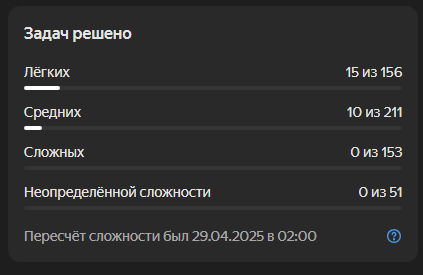
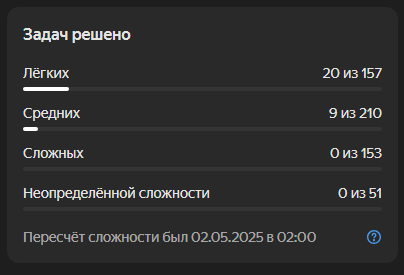
Solve an easy level task. The binary search tag

diff --git a/code/solutions/132 — Коллекционер Диего/solution.py b/code/solutions/132 — Коллекционер Диего/solution.py
@@ -1,0 +1,30 @@
+import sys
+
+class Solution:
+    def insert_search(self, nums, target):
+        l = 0
+        r = len(nums) - 1
+
+        while l <= r:
+            mid = (l + r) // 2
+            if target > nums[mid]:
+                l = mid + 1
+            else:
+                r = mid - 1
+
+        return l
+
+def main():
+    N = input()
+    n_nums = sorted(set(map(int, input().split())))
+    K = input()
+    k_nums = list(map(int, input().split()))
+
+    sol = Solution()
+    for i in k_nums:
+        result = sol.insert_search(n_nums, i)
+        print(result)
+
+
+if __name__ == '__main__':
+    main()

diff --git a/code/solutions/132 — Коллекционер Диего/README.md b/code/solutions/132 — Коллекционер Диего/README.md
@@ -1,0 +1,64 @@
+## 106. Провода
+
+**Уровень:** Лёгкая  
+**Статус:** Решена
+**Задача:**
+
+Диего увлекается коллекционированием наклеек. На каждой из них написано число, и каждый коллекционер мечтает собрать
+наклейки со всеми встречающимися числами.
+
+Диего собрал `N` наклеек, некоторые из которых, возможно, совпадают. Как-то раз к нему пришли `K` коллекционеров.  
+`i-й` из них собрал все наклейки с номерами не меньшими, чем (`pi`).  
+Напишите программу, которая поможет каждому из коллекционеров определить, сколько недостающих ему наклеек есть у
+Диего.  
+Разумеется, гостей Диего не интересуют повторные экземпляры наклеек.
+
+### Формат ввода
+
+- В первой строке содержится единственное число (`N`) — количество наклеек у Диего.  
+  `0 ≤ N ≤ 100000`
+- Во второй строке содержится `N` целых неотрицательных чисел — номера наклеек Диего.  
+  Все номера наклеек не превосходят `10^9`.
+- В третьей строке содержится число (`K`) — количество коллекционеров, пришедших к Диего.  
+  `0 ≤ K ≤ 100000`
+- В четвёртой строке содержатся `K` целых чисел `pi` — наименьший номер наклейки, не интересующий `i`-го коллекционера.  
+  `0 ≤ pi ≤ 10^9`
+
+
+### Формат вывода
+
+Для каждого коллекционера в отдельной строке выведите количество различных чисел на наклейках, которые есть у Диего,  
+но отсутствуют у этого коллекционера.
+
+### Ограничения
+
+- **Ограничение времени:** 2 с
+- **Ограничение памяти:** 256 МБ
+
+#### Пример 1
+
+```
+Ввод
+1
+5
+2
+4 6
+
+Вывод
+0
+1
+```  
+
+#### Пример 2
+```
+Ввод
+3
+100 1 50
+3
+300 0 75
+
+Вывод
+3
+0
+2
+```

diff --git a/README.md b/README.md
@@ -35,11 +35,11 @@
 
 | Сложность       | Решено | Всего |
 |------------------|--------|--------|
-| 🟢 Лёгкие         | 18     | 156    |
+| 🟢 Лёгкие         | 20     | 156    |
 | 🟡 Средние        | 10     | 211    |
 | 🔴 Сложные        | 0      | 153    |
 | ⚪ Неопределённые | 0      | 51     |
-| **Итого**        | **28** | 571    |
+| **Итого**        | **30** | 571    |
 
 _Цель: 35 задач до конца весны 2025 _   
 
